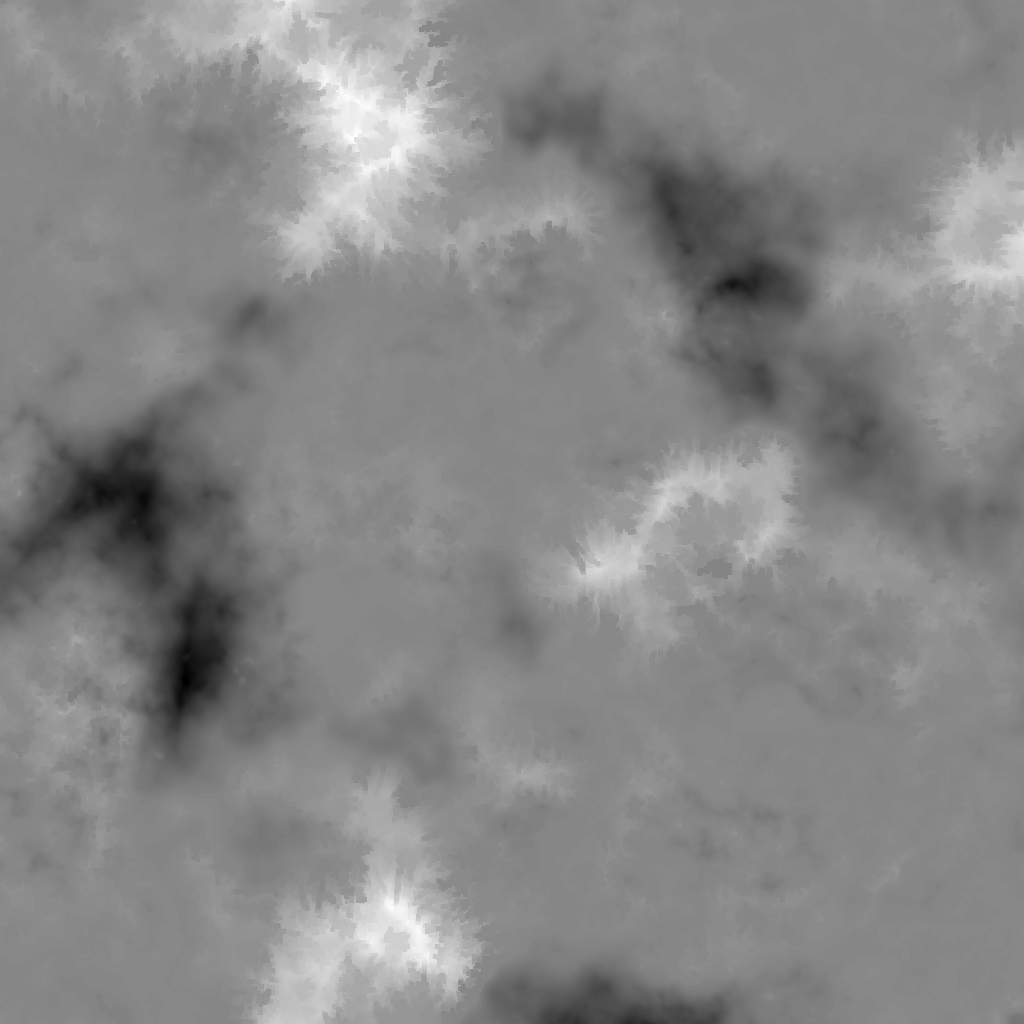
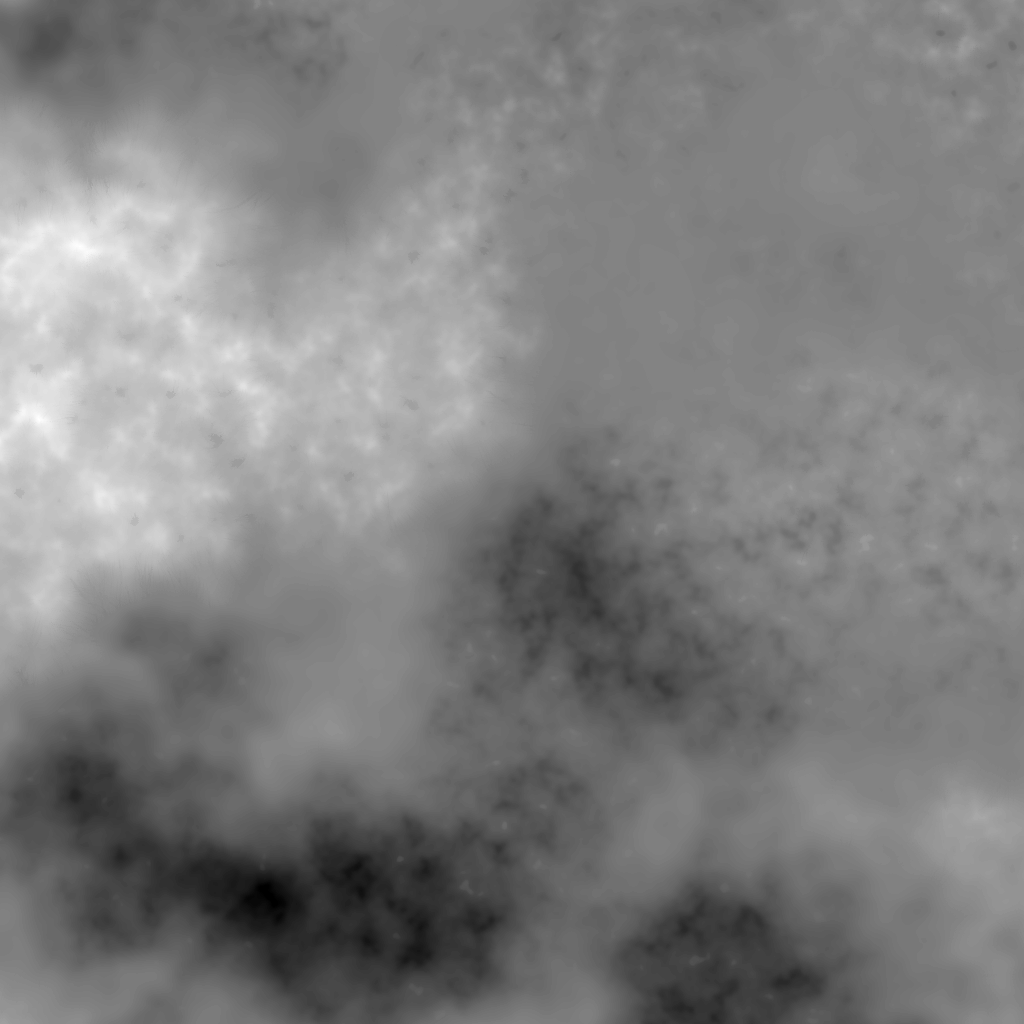
Fixed layer bug

diff --git a/src/terrain.cpp b/src/terrain.cpp
@@ -33,7 +33,7 @@ void Terrain::Init()
 		fclose(f);
 	}
 
-	f = fopen("layers.dat", "rb");
+	f = fopen("layer.dat", "rb");
 	if (f)
 	{
 		fread(&continentalness, 1, sizeof(continentalness), f);
@@ -176,77 +176,96 @@ void Terrain::HandleInterface()
 
 	std::vector<const char*> items =
 	{
-		"None", "Grassland", "Desert", "Ocean"
+		"Default", "Grassland", "Desert", "Ocean"
 	};
 
-	parameters.dirty |= ImGui::Combo("Preset",
+	if (parameters.dirty |= ImGui::Combo("Preset",
 		&parameters.presetIndex, items.data(),
-			static_cast<int>(items.size()));
-	switch (parameters.presetIndex)
+		static_cast<int>(items.size())))
 	{
-		FILE* f;
-
-		case 1:
+		switch (parameters.presetIndex)
 		{
-			f = fopen("layer_grassland.dat", "rb");
+			FILE* f;
 
-			if (f)
+			case 0:
 			{
-				fread(&continentalness, 1, sizeof(continentalness), f);
-				fread(&erosion, 1, sizeof(erosion), f);
-				fread(&peaks, 1, sizeof(peaks), f);
-				fread(&temperature, 1, sizeof(temperature), f);
-				fread(&humidity, 1, sizeof(humidity), f);
-				fread(&contdensity, 1, sizeof(contdensity), f);
-				fread(&density, 1, sizeof(density), f);
-				fread(&peakdensity, 1, sizeof(peakdensity), f);
-				fclose(f);
+				f = fopen("layer_default.dat", "rb");
+
+				if (f)
+				{
+					fread(&continentalness, 1, sizeof(continentalness), f);
+					fread(&erosion, 1, sizeof(erosion), f);
+					fread(&peaks, 1, sizeof(peaks), f);
+					fread(&temperature, 1, sizeof(temperature), f);
+					fread(&humidity, 1, sizeof(humidity), f);
+					fread(&contdensity, 1, sizeof(contdensity), f);
+					fread(&density, 1, sizeof(density), f);
+					fread(&peakdensity, 1, sizeof(peakdensity), f);
+					fclose(f);
+				}
+
+				break;
 			}
 
-			parameters.dirty = true;
-			break;
-		}
-
-		case 2:
-		{
-			f = fopen("layer_desert.dat", "rb");
-
-			if (f)
+			case 1:
 			{
-				fread(&continentalness, 1, sizeof(continentalness), f);
-				fread(&erosion, 1, sizeof(erosion), f);
-				fread(&peaks, 1, sizeof(peaks), f);
-				fread(&temperature, 1, sizeof(temperature), f);
-				fread(&humidity, 1, sizeof(humidity), f);
-				fread(&contdensity, 1, sizeof(contdensity), f);
-				fread(&density, 1, sizeof(density), f);
-				fread(&peakdensity, 1, sizeof(peakdensity), f);
-				fclose(f);
+				f = fopen("layer_grassland.dat", "rb");
+
+				if (f)
+				{
+					fread(&continentalness, 1, sizeof(continentalness), f);
+					fread(&erosion, 1, sizeof(erosion), f);
+					fread(&peaks, 1, sizeof(peaks), f);
+					fread(&temperature, 1, sizeof(temperature), f);
+					fread(&humidity, 1, sizeof(humidity), f);
+					fread(&contdensity, 1, sizeof(contdensity), f);
+					fread(&density, 1, sizeof(density), f);
+					fread(&peakdensity, 1, sizeof(peakdensity), f);
+					fclose(f);
+				}
+
+				break;
 			}
 
-			parameters.dirty = true;
-			break;
-		}
-
-		case 3:
-		{
-			f = fopen("layer_ocean.dat", "rb");
-
-			if (f)
+			case 2:
 			{
-				fread(&continentalness, 1, sizeof(continentalness), f);
-				fread(&erosion, 1, sizeof(erosion), f);
-				fread(&peaks, 1, sizeof(peaks), f);
-				fread(&temperature, 1, sizeof(temperature), f);
-				fread(&humidity, 1, sizeof(humidity), f);
-				fread(&contdensity, 1, sizeof(contdensity), f);
-				fread(&density, 1, sizeof(density), f);
-				fread(&peakdensity, 1, sizeof(peakdensity), f);
-				fclose(f);
+				f = fopen("layer_desert.dat", "rb");
+
+				if (f)
+				{
+					fread(&continentalness, 1, sizeof(continentalness), f);
+					fread(&erosion, 1, sizeof(erosion), f);
+					fread(&peaks, 1, sizeof(peaks), f);
+					fread(&temperature, 1, sizeof(temperature), f);
+					fread(&humidity, 1, sizeof(humidity), f);
+					fread(&contdensity, 1, sizeof(contdensity), f);
+					fread(&density, 1, sizeof(density), f);
+					fread(&peakdensity, 1, sizeof(peakdensity), f);
+					fclose(f);
+				}
+
+				break;
 			}
 
-			parameters.dirty = true;
-			break;
+			case 3:
+			{
+				f = fopen("layer_ocean.dat", "rb");
+
+				if (f)
+				{
+					fread(&continentalness, 1, sizeof(continentalness), f);
+					fread(&erosion, 1, sizeof(erosion), f);
+					fread(&peaks, 1, sizeof(peaks), f);
+					fread(&temperature, 1, sizeof(temperature), f);
+					fread(&humidity, 1, sizeof(humidity), f);
+					fread(&contdensity, 1, sizeof(contdensity), f);
+					fread(&density, 1, sizeof(density), f);
+					fread(&peakdensity, 1, sizeof(peakdensity), f);
+					fclose(f);
+				}
+
+				break;
+			}
 		}
 	}
 
@@ -656,7 +675,7 @@ void Terrain::Shutdown()
 {
 	FILE* f;
 
-	f = fopen("layers.dat", "wb");
+	f = fopen("layer.dat", "wb");
 	fwrite(&continentalness, 1, sizeof(continentalness), f);
 	fwrite(&erosion, 1, sizeof(erosion), f);
 	fwrite(&peaks, 1, sizeof(peaks), f);
